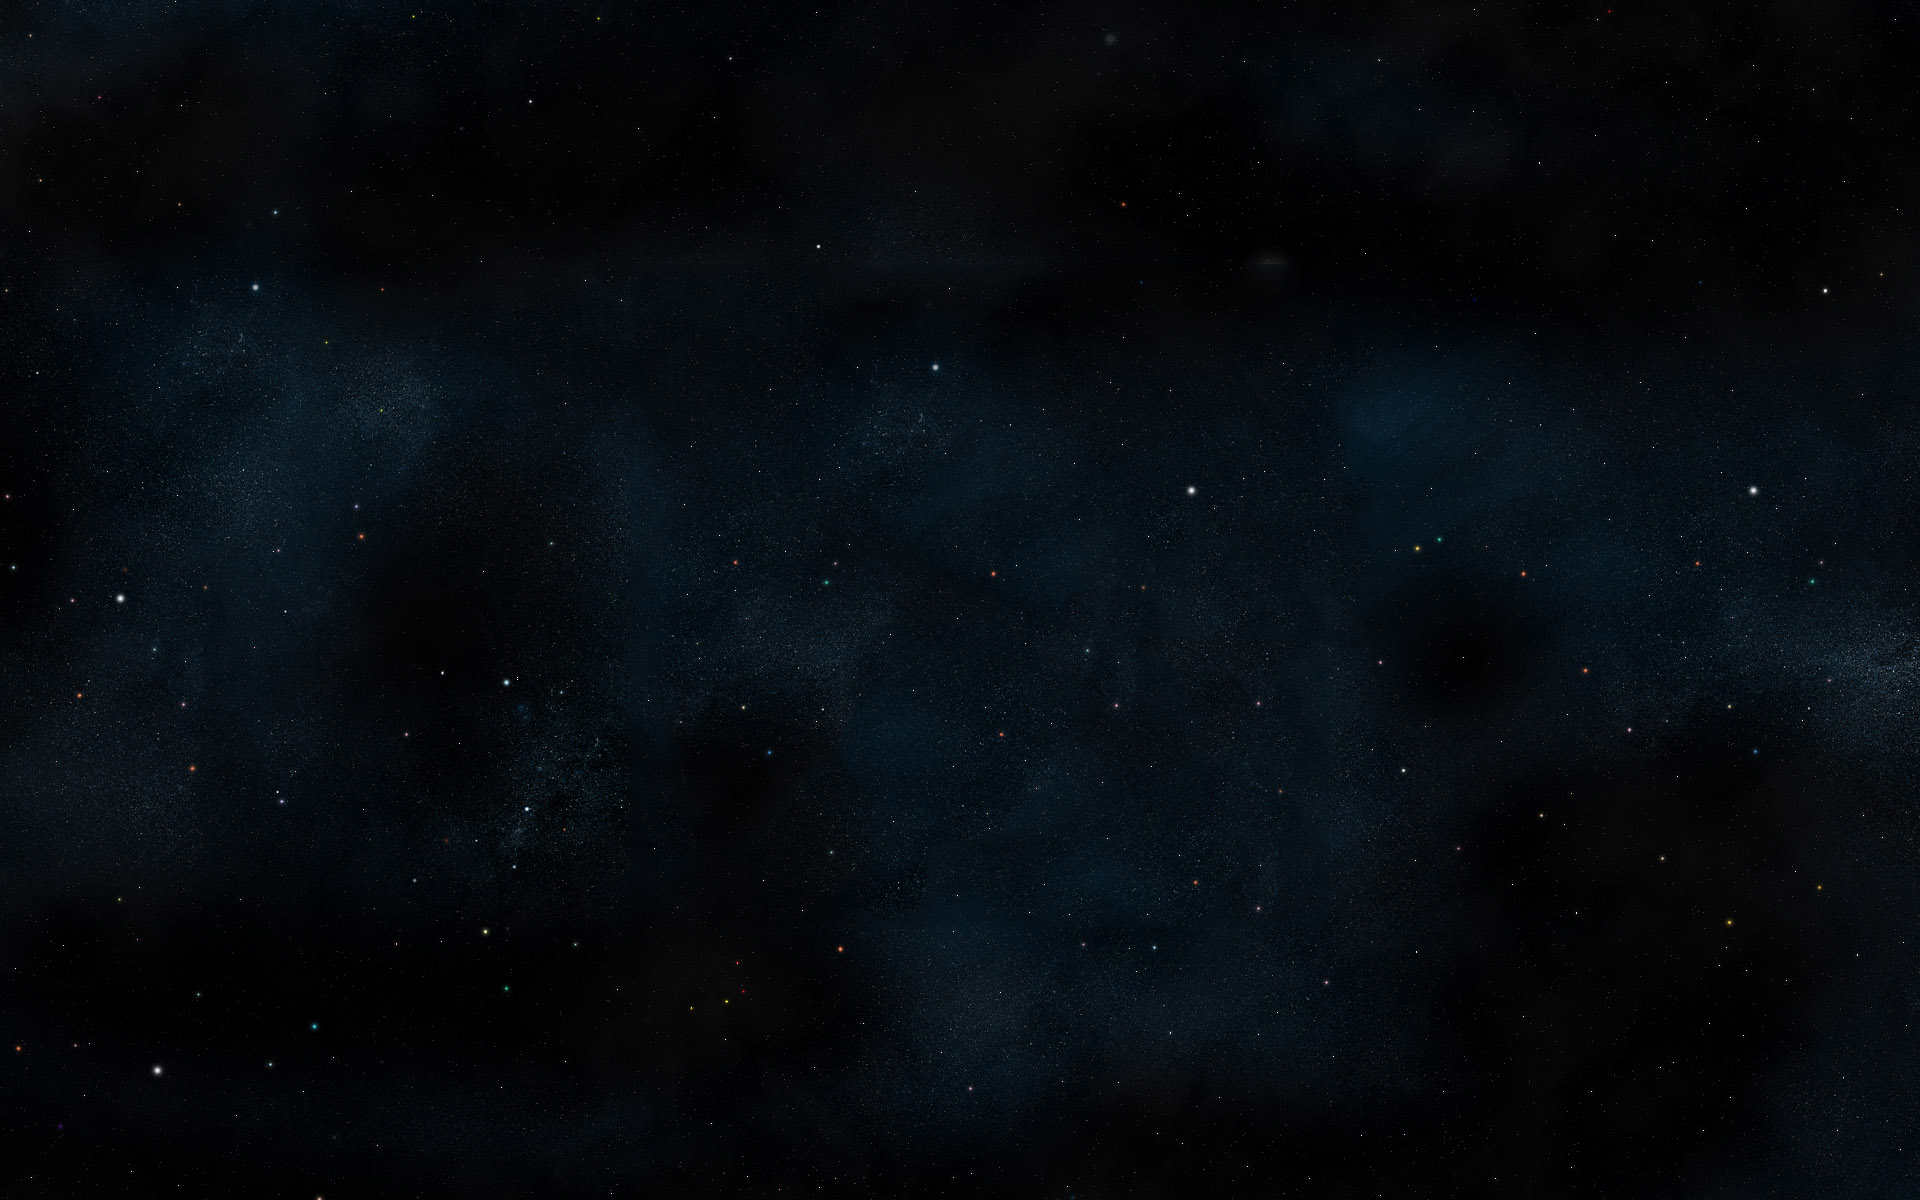
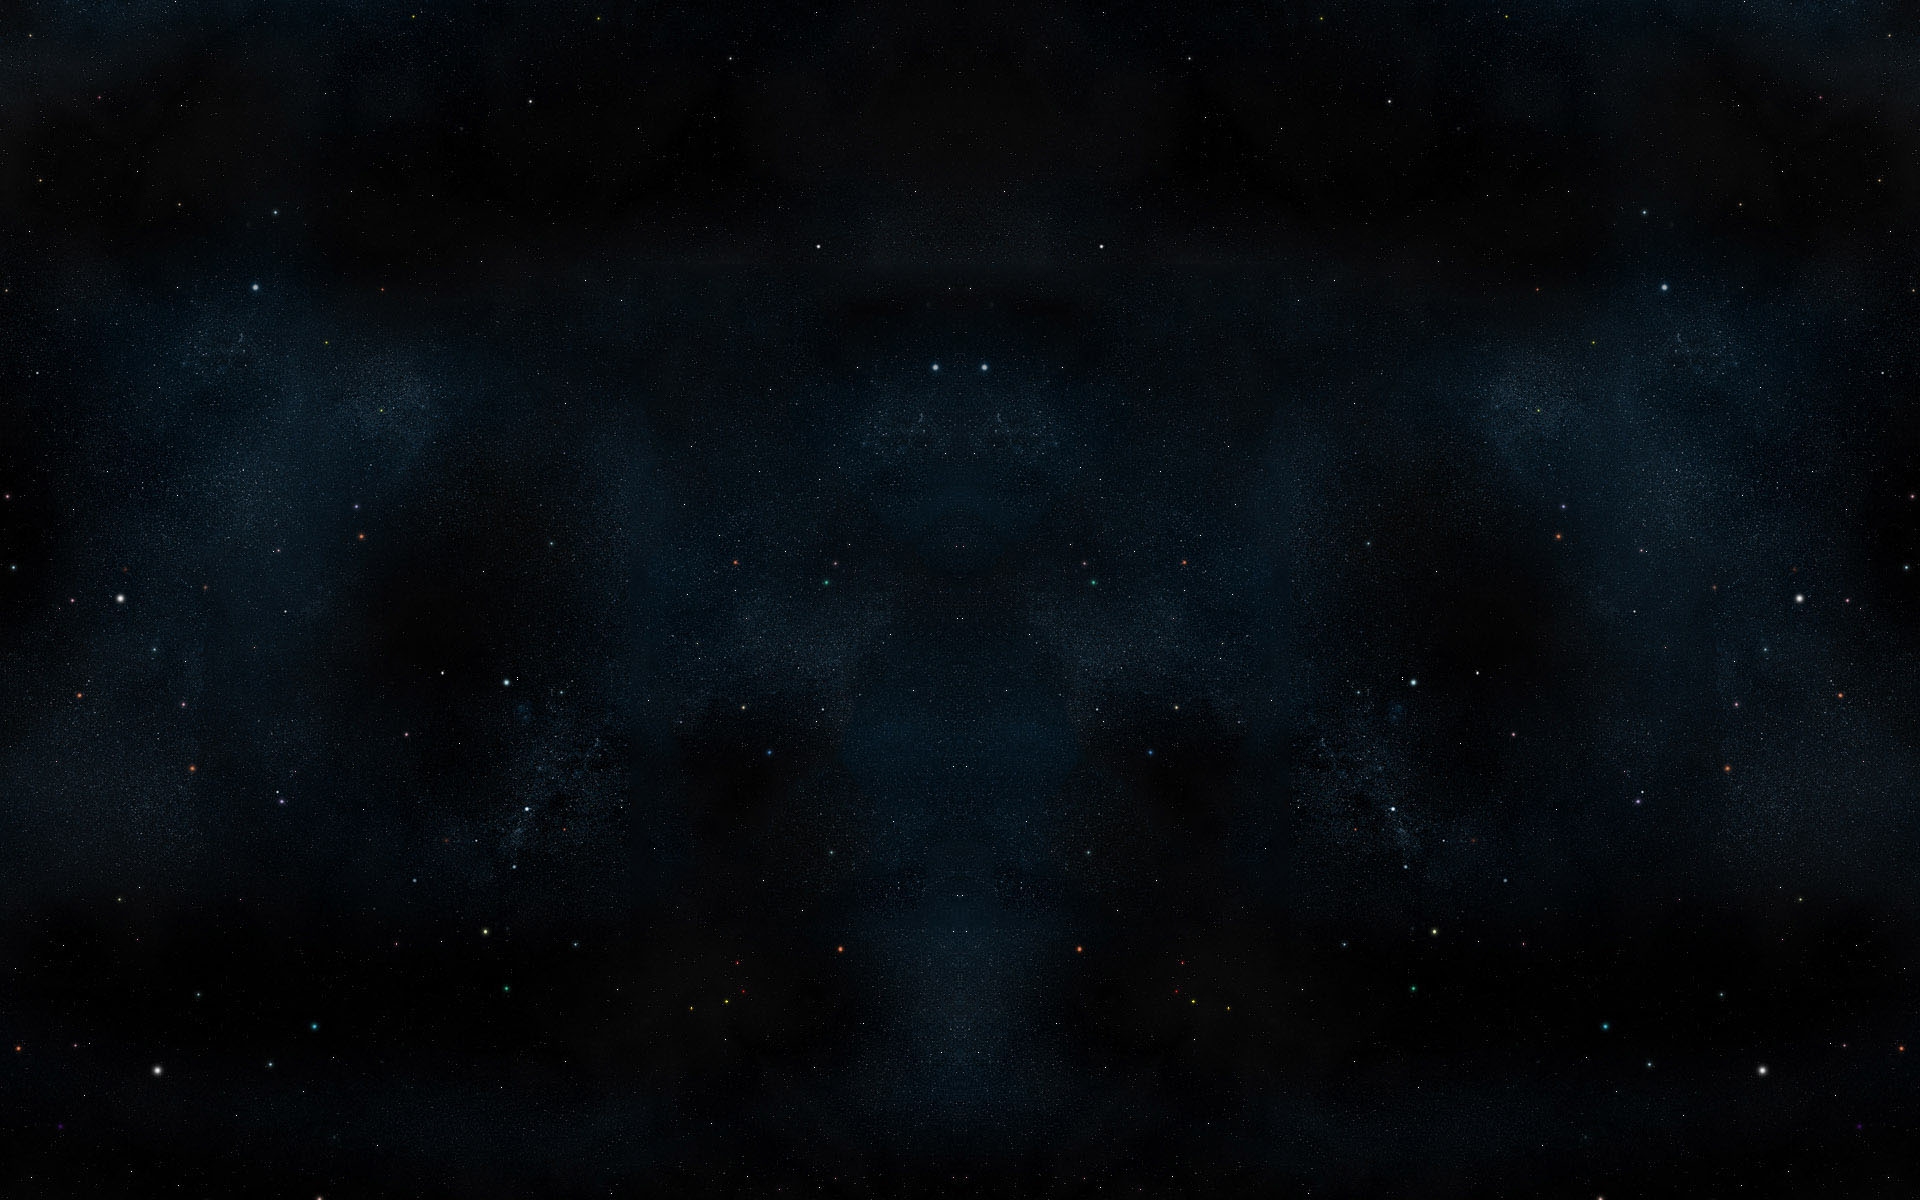
gate rotated

diff --git a/css/three.css b/css/three.css
@@ -21,9 +21,33 @@ body{
     height: 100vh;
     width: 100%;
     z-index: 100;
-    background-image: url('../assets/main/qwerty.jpg');
+/*    background-image: url('../assets/main/qwerty.jpg');
     background-size: 100% 100%;
-    background-repeat: no-repeat;
+    background-repeat: no-repeat;*/
+}
+
+img.bg1{
+    width: 100vw;
+    height: 100vh;
+    animation: mymove1 50s linear infinite;
+    position: absolute;
+}
+
+img.bg2{
+    width: 100vw;
+    height: 100vh;
+    animation: mymove2 50s linear infinite;
+    position: absolute;
+}
+
+@keyframes mymove1 {
+ from { left: -100vw; }
+ to { left: 0vw; }
+}
+
+@keyframes mymove2 {
+ from { left: 0vw; }
+ to { left: 100vw; }
 }
 
 #pointer{
@@ -374,9 +398,9 @@ body, #container{
 #stage-i1{
     display: none;
     top: 40vh;
-    left: -19vh;
+    left: 19vh;
     height: 20vh;
-    transform: rotateX(180deg);
+    transform: rotateZ(180deg);
 }
 
 @keyframes popout-stage-1{
@@ -388,22 +412,22 @@ body, #container{
     20%{
         height: 4vh;
         top: -9vh;
-        left: -1.9vh;
+        left: 3.9vh;
     }
     50%{
         top: 44vh;
-        left: -25vh;
+        left: 24.3vh;
         height: 26vh;
     }
     75%{
         top: 34vh;
-        left: -16vh;
+        left: 16vh;
         height: 17vh;
     }
     100%{
         height: 20vh;
         top: 40vh;
-        left: -19vh;
+        left: 19vh;
     }
 }
 

diff --git a/index.html b/index.html
@@ -100,7 +100,10 @@
             </div>
             </div>
         </div>
-        <div id="background" class="afterLoad" style="display: none"></div>
+        <div id="background" class="afterLoad" style="display: none">
+            <img class="bg1" src="assets/main/qwerty.jpg">
+            <img class="bg2" src="assets/main/qwerty.jpg">
+        </div>
         <div id="container" style="position:absolute;z-index:500;" class="afterLoad"></div>
         <div id="engifest16" class="bring-in" style="display: none;"><div id="main-text">ENGIFEST '16</div></div>
         <div class="over-image">
@@ -256,6 +259,7 @@
           $(oat).css('visibility', 'visible');
           svg_loader(svgDoc);
           imageSrcs = ["assets/main/map.png",
+                        "assets/main/qwerty.jpg",
                         "assets/images/Sports/audisidefinal.png",
                         "assets/images/Sports/mechCsideview.png",
                         "assets/images/Sports/crowdfinal.png",

diff --git a/js/sphere.js b/js/sphere.js
@@ -33,8 +33,6 @@
         }
     );
     var sphere = new THREE.Mesh( geometry, material);
-    var a = new THREE.Vector3( 0, -1, 0 );
-    //sphere.translateOnAxis(a, 15);
     scene.add(sphere);
 
     window.addEventListener('resize', function() {
@@ -59,7 +57,7 @@
         renderer.render(scene, camera);
 
     });
-    
+
     //managing animations
     var x = [0,0,0.1,-1];
     var y = [0,-3.1,-1.7,3.6];
